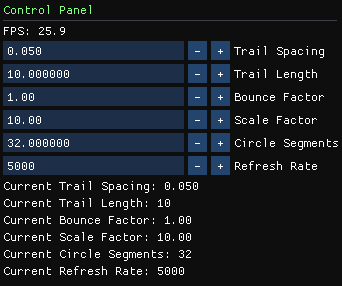
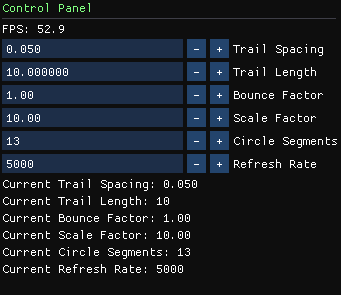
Control panel for physik + added parameters

Changed region(s): [[0.0, 0.0, 0.9971, 0.979]]

diff --git a/main.cpp b/main.cpp
@@ -92,7 +92,7 @@ double g_trailSpacing = SPACING;
 double g_maxTrailLength = TRAIL_LENGTH;
 double g_bounceFactor = BOUNCE_FACTOR;
 double g_scaleFactor = SCALE_FACTOR;
-double g_circleSegments = CIRCLE_SEGMENTS;
+int g_circleSegments = CIRCLE_SEGMENTS;
 int g_refreshRate = REFRESH_RATE;
 
 
@@ -169,8 +169,8 @@ void renderControlPanel(GLFWwindow* controlWindow) {
     g_scaleFactor = std::max(0.1, std::min(100.0, g_scaleFactor));
 
     // Circle Segments
-    ImGui::InputDouble("Circle Segments", &g_circleSegments, 1.0, 10.0);
-    g_circleSegments = std::max(3.0, std::min(100.0, g_circleSegments));
+    ImGui::InputInt("Circle Segments", &g_circleSegments, 1.0, 10.0);
+    g_circleSegments = std::max(3, std::min(100, g_circleSegments));
 
     // Refresh Rate
     ImGui::InputInt("Refresh Rate", &g_refreshRate, 100.0, 1000.0);
@@ -180,7 +180,7 @@ void renderControlPanel(GLFWwindow* controlWindow) {
     ImGui::Text("Current Trail Length: %.0f", g_maxTrailLength);
     ImGui::Text("Current Bounce Factor: %.2f", g_bounceFactor);
     ImGui::Text("Current Scale Factor: %.2f", g_scaleFactor);
-    ImGui::Text("Current Circle Segments: %.0f", g_circleSegments);
+    ImGui::Text("Current Circle Segments: %d", g_circleSegments);
     ImGui::Text("Current Refresh Rate: %d", g_refreshRate);
 
     ImGui::End();
